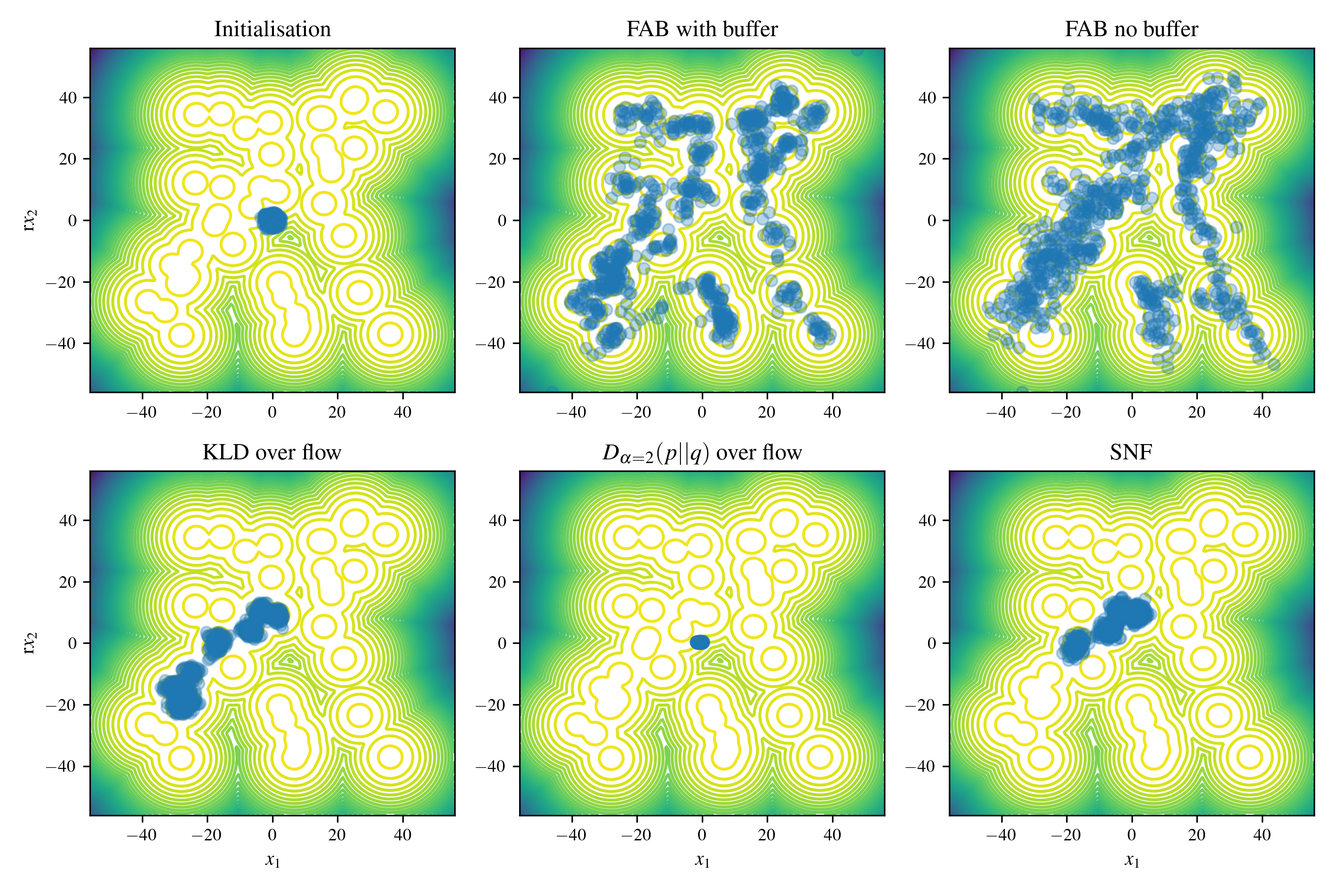
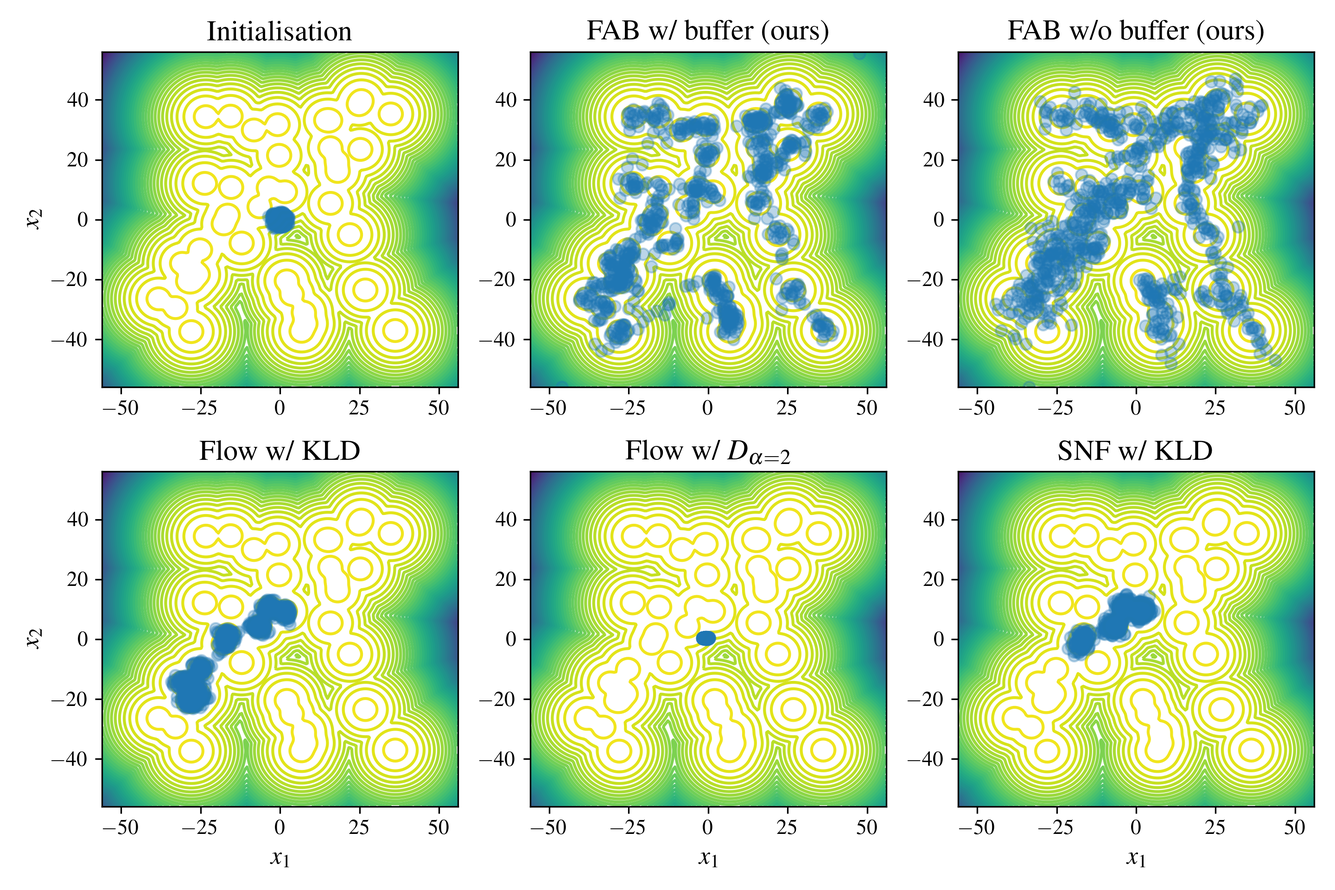
fix: bug in expecation function randomness for gmm eval, update plots

diff --git a/examples/paper_results/gmm/results_vis.py b/examples/paper_results/gmm/results_vis.py
@@ -14,7 +14,7 @@ import torch
 PATH = os.getcwd()
 
 def plot_result(cfg: DictConfig, ax: plt.axes, target, model_name: Optional[str] = None):
-    n_samples: int = 800
+    n_samples: int = int(1e4)
     alpha = 0.3
     plotting_bounds = (-cfg.target.loc_scaling * 1.4, cfg.target.loc_scaling * 1.4)
 
@@ -51,22 +51,22 @@ def plot_result(cfg: DictConfig, ax: plt.axes, target, model_name: Optional[str]
 @hydra.main(config_path="./", config_name="config.yaml")
 def run(cfg: DictConfig):
     model_names = [None, "fab_buffer", "fab_no_buffer", "flow_kld", "flow_nis", "snf"]
-    titles = ["Initialisation", "FAB with buffer", "FAB no buffer",
-              "KLD over flow", r"$D_{\alpha=2}(p || q)$ over flow", "SNF"]
+    titles = ["Initialisation", "FAB w/ buffer (ours)", "FAB w/o buffer (ours)",
+              "Flow w/ KLD", r"Flow w/ $D_{\alpha=2}$", "SNF w/ KLD"]
 
     mpl.rcParams['figure.dpi'] = 300
     rc('font', **{'family': 'serif', 'serif': ['Times']})
     rc('text', usetex=True)
-    rc('axes', titlesize=12, labelsize=10)  # fontsize of the axes title and labels
+    rc('axes', titlesize=15, labelsize=13)  # fontsize of the axes title and labels
     #rc('legend', fontsize=6)
-    rc('xtick', labelsize=9)
-    rc('ytick', labelsize=9)
+    rc('xtick', labelsize=11)
+    rc('ytick', labelsize=11)
 
     n_rows, n_cols = 2, 3
     size = 3.2
     fig, axs = plt.subplots(n_rows, n_cols, figsize=(n_cols*size, n_rows*size))
-    axs[0, 0].set_ylabel("r$x_2$")
-    axs[1, 0].set_ylabel("r$x_2$")
+    axs[0, 0].set_ylabel(r"$x_2$")
+    axs[1, 0].set_ylabel(r"$x_2$")
     for i in range(n_cols):
         axs[-1, i].set_xlabel(r"$x_1$")
 

diff --git a/examples/paper_results/many_well/results_vis.py b/examples/paper_results/many_well/results_vis.py
@@ -2,6 +2,8 @@ import os
 from typing import Optional
 import hydra
 import matplotlib.pyplot as plt
+from matplotlib import rc
+import matplotlib as mpl
 from omegaconf import DictConfig
 from examples.make_flow import make_wrapped_normflowdist
 from examples.many_well_visualise_all_marginal_pairs import get_target_log_prob_marginal_pair
@@ -54,20 +56,29 @@ def plot_marginals(cfg: DictConfig, supfig, model_name, plot_y_label):
 
 @hydra.main(config_path="./", config_name="config.yaml")
 def run(cfg: DictConfig):
+    mpl.rcParams['figure.dpi'] = 300
+    rc('font', **{'family': 'serif', 'serif': ['Times']})
+    rc('text', usetex=True)
+    rc('figure', titlesize=15)
+    rc('axes', titlesize=13, labelsize=13)  # fontsize of the axes title and labels
+    #rc('legend', fontsize=6)
+    rc('xtick', labelsize=11)
+    rc('ytick', labelsize=11)
+
     model_names = ["fab_buffer", "flow_kld"]
-    titles = ["FAB", "KLD over flow"]
+    titles = ["FAB w/ buffer", "Flow w/ KLD"]
 
     width, height = 10, 6
     fig = plt.figure(constrained_layout=True, figsize=(width, height))
     subfigs = fig.subfigures(1, 2, wspace=0.01)
 
     plot_marginals(cfg, subfigs[0], model_names[0], plot_y_label=True)
-    subfigs[0].suptitle("Flow trained with FAB")
+    subfigs[0].suptitle(titles[0])
 
     plot_marginals(cfg, subfigs[1], model_names[1], plot_y_label=False)
-    subfigs[1].suptitle("Flow trained with KLD")
+    subfigs[1].suptitle(titles[1])
 
-    fig.suptitle(' ', fontsize='xx-large')
+    #fig.suptitle(' ', fontsize='xx-large')
     plt.show()
 
 

diff --git a/examples/paper_results/many_well/results_vis_appendix.py b/examples/paper_results/many_well/results_vis_appendix.py
@@ -2,6 +2,8 @@ import os
 from typing import Optional
 import hydra
 import matplotlib.pyplot as plt
+from matplotlib import rc
+import matplotlib as mpl
 from omegaconf import DictConfig
 from examples.make_flow import make_wrapped_normflowdist
 from examples.many_well_visualise_all_marginal_pairs import get_target_log_prob_marginal_pair
@@ -71,12 +73,19 @@ def plot_marginals(cfg: DictConfig, supfig, model_name, plot_y_label):
 
 @hydra.main(config_path="./", config_name="config.yaml")
 def run(cfg: DictConfig):
+    mpl.rcParams['figure.dpi'] = 300
+    rc('font', **{'family': 'serif', 'serif': ['Times']})
+    rc('text', usetex=True)
+    rc('figure', titlesize=15)
+    rc('axes', titlesize=13, labelsize=13)  # fontsize of the axes title and labels
+    #rc('legend', fontsize=6)
+    rc('xtick', labelsize=11)
+    rc('ytick', labelsize=11)
+
     torch.set_default_dtype(torch.float64)
     model_names = [None, "fab_buffer", "fab_no_buffer", "flow_kld", "flow_nis", "snf"]
-    titles = ["Initialisation", "FAB with buffer", "FAB no buffer",
-              "KLD over flow", r"$D_{\alpha=2}(p || q)$ over flow", "SNF"]
-    # model_names = [None, "fab_buffer", "fab_no_buffer", "flow_kld", "snf"]
-    # titles = ["Initialisation", "FAB with buffer", "FAB no buffer", "KLD over flow", "SNF"]
+    titles = ["Initialisation", "FAB w/ buffer (ours)", "FAB w/o buffer (ours)",
+              "Flow w/ KLD", r"Flow w/ $D_{\alpha=2}$", "SNF w/ KLD"]
 
     width, height = 10, 15
     fig = plt.figure(constrained_layout=True, figsize=(width, height))

diff --git a/fab/utils/numerical.py b/fab/utils/numerical.py
@@ -30,11 +30,14 @@ def effective_sample_size_over_p(log_w: torch.Tensor):
     return 1 / torch.mean(torch.exp(log_w))
 
 
-def quadratic_function(x: torch.Tensor):
+
+def quadratic_function(x: torch.Tensor, seed: int = 0):
+    torch.random.manual_seed(seed)
     # example function that we may want to calculate expectations over
     x_shift = 2*torch.randn(x.shape[-1]).to(x.device)
     A = 2*torch.rand((x.shape[-1], x.shape[-1])).to(x.device)
     b = torch.rand(x.shape[-1]).to(x.device)
+    torch.seed() # set back to random number
     x = x + x_shift
     return torch.einsum("bi,ij,bj->b", x, A, x) + torch.einsum("i,bi->b", b, x)
 

diff --git a/fab/target_distributions/gmm.py b/fab/target_distributions/gmm.py
@@ -28,7 +28,7 @@ class GMM(nn.Module, TargetDistribution):
         self.expectation_function = quadratic_function
         self.register_buffer("true_expectation", MC_estimate_true_expectation(self,
                                                              self.expectation_function,
-                                                             int(1e6)))
+                                                             int(1e7)))
         self.device = "cuda" if use_gpu else "cpu"
         self.to(self.device)
 

diff --git a/examples/paper_results/gmm/evaluation.py b/examples/paper_results/gmm/evaluation.py
@@ -67,7 +67,7 @@ def evaluate(cfg: DictConfig, model_name: str, num_samples=int(1e4)):
 def main(cfg: DictConfig):
     model_names = ["fab_buffer", "fab_no_buffer", "flow_kld", "flow_nis", "snf"]
     seeds = [1, 2, 3]
-    num_samples = int(500)
+    num_samples = int(5e3)
 
     results = pd.DataFrame()
     for model_name in model_names:
